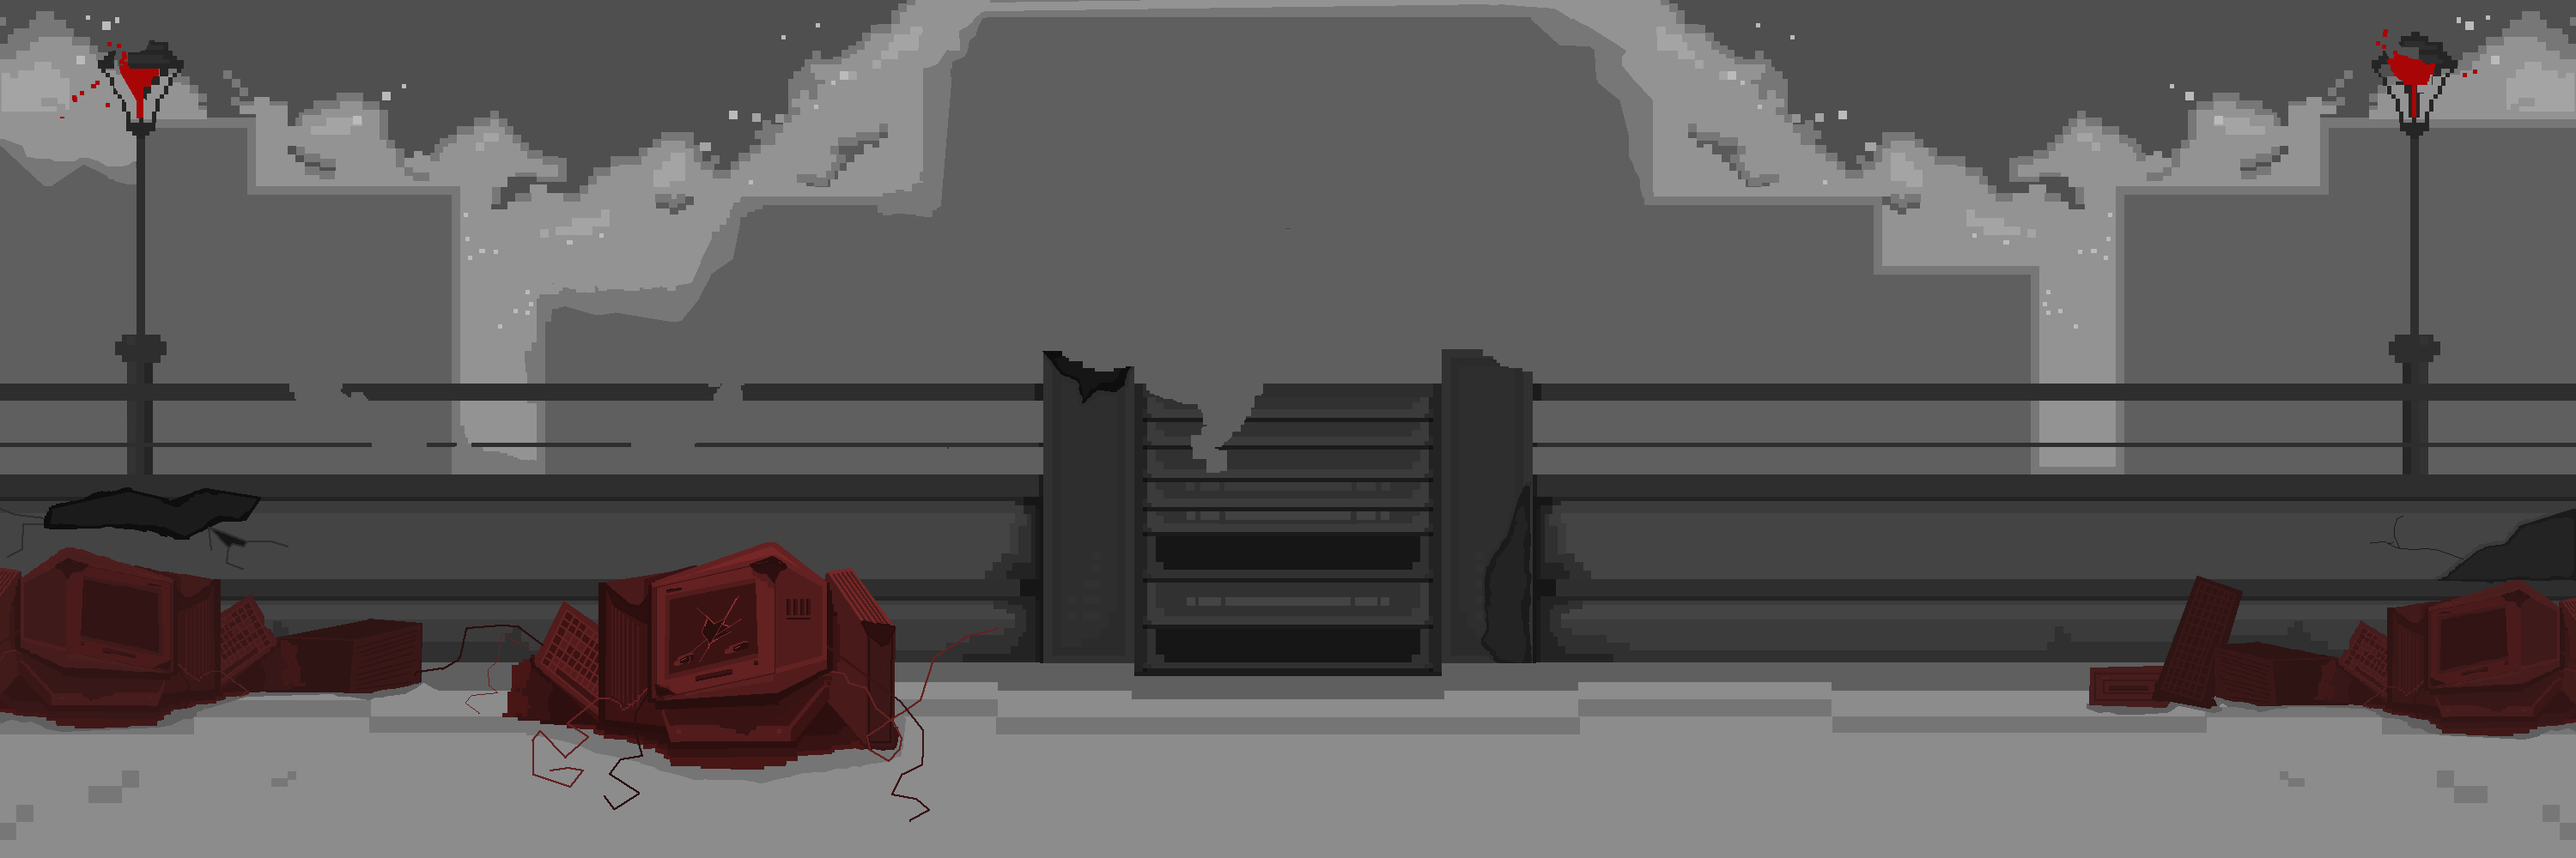
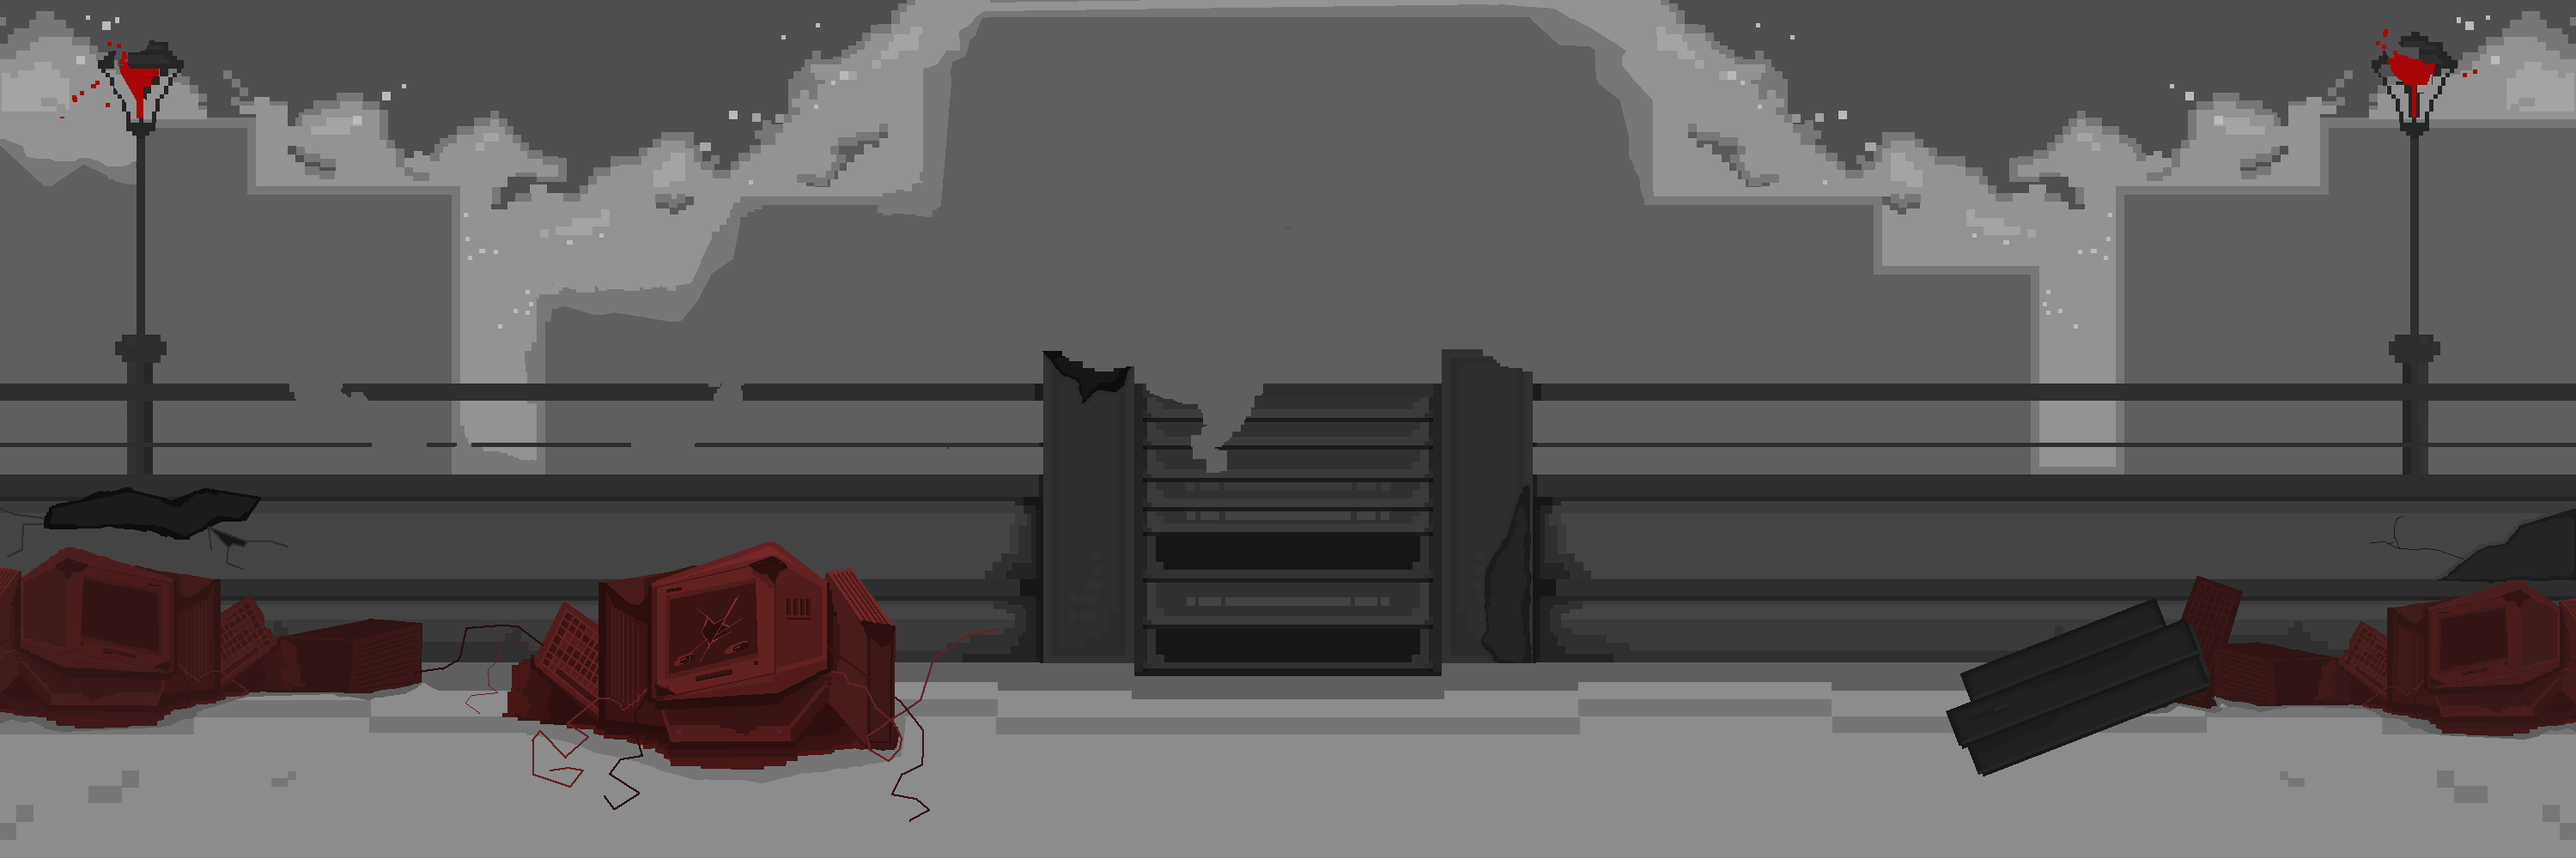
Correção e adição de mapas e assets

Changed region(s): [[0.744, 0.682, 0.868, 0.899]]

diff --git a/public/game/game.js b/public/game/game.js
@@ -628,8 +628,8 @@ function receiveBlindfold() {
                 showDialogue([
                     "Venda equipada.",
                     "Use o botão no canto direito inferior para colocar ou retirar a venda.",
-                    "Quando equipada, as aparências já não são mais as mesmas",
-                    "Quando a removida, seus segredos não podem mais ser mantidos ...",
+                    "Quando equipada, as aparências já não são mais as mesmas...",
+                    "Quando removida, seus segredos não podem mais ser mantidos ...",
                     "CUIDADO: Nunca remova a venda perto de humanos!",
                 ], null, "MEE SYSTEM");
             },

diff --git a/public/game/style.css b/public/game/style.css
@@ -153,6 +153,7 @@ button:hover {
     height: 8px;
     background: #332929;
     margin-top: 10px;
+    margin-bottom: 5%;
 }
 
 #progress {
